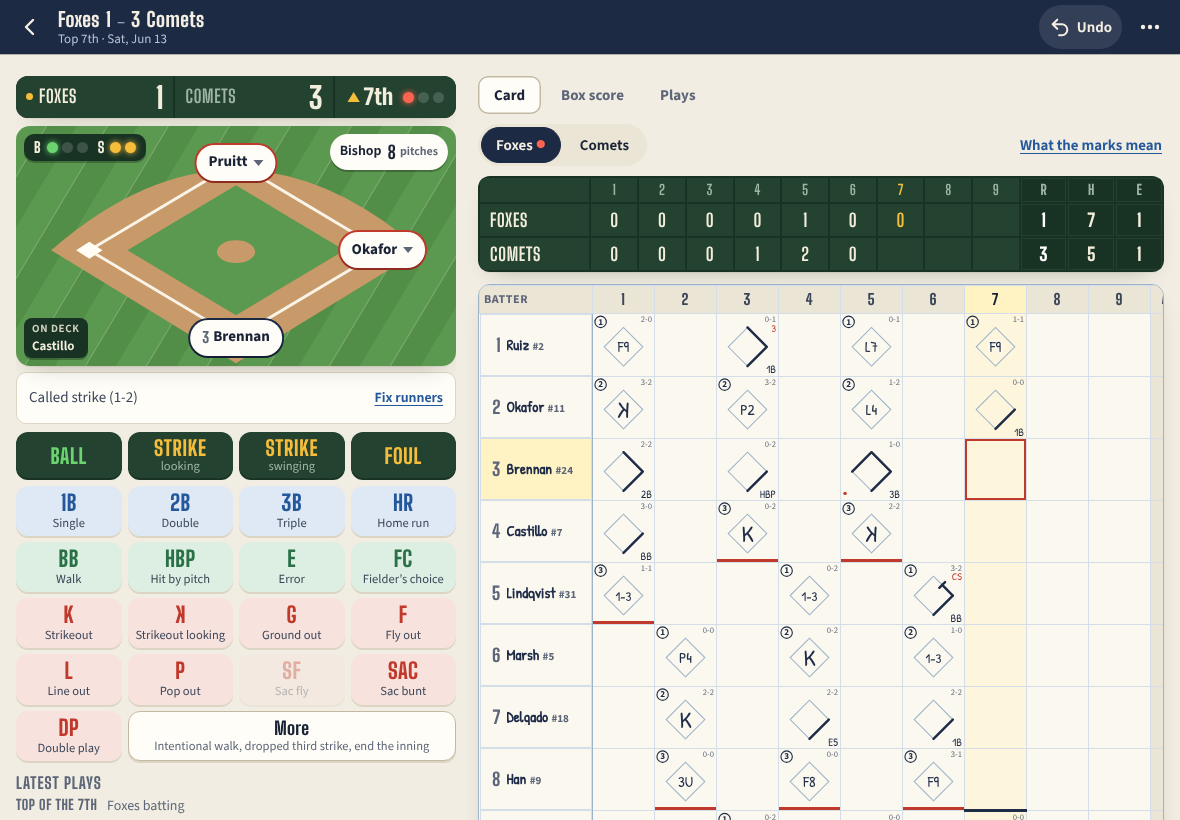
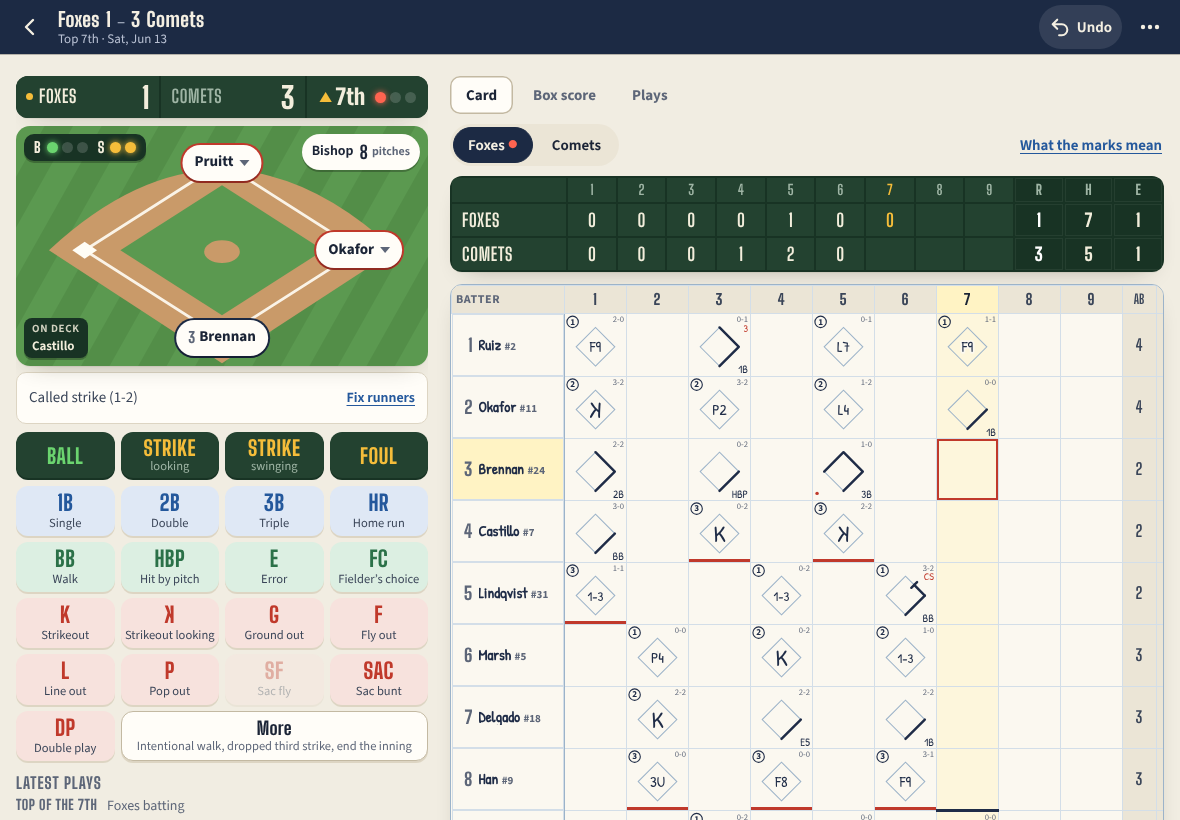
Nine innings of the card fit beside the buttons on a laptop
At 1280x800 the card was 898px wide in 784px of room, and at 1366x768
in 870px, so RBI was cut off and the card scrolled sideways for a few
pixels. The bigger boxes came in at 1200px wide whether or not they
fit. Now the boxes grow with the room the card has, from 62px to 72px,
only as far as nine innings and AB R H RBI still fit across: 62px at
1280, 68px at 1366, 72px from 1440. Up to 1365px wide the buttons'
column is 412px instead of 440px, so the card fits at 1280; the words
on the result buttons come 2px closer to their edges there, so
"Strikeout looking" stays on one line and everything down to More
still fits on a tablet on its side. The tablet picture is redrawn; the
link preview is drawn from the card at a computer's width, so it comes
out as before.

Claude-Session: https://claude.ai/code/session_0157za5jQT97q7xA8DmFNyQL

diff --git a/css/app.css b/css/app.css
@@ -447,6 +447,12 @@ details.lineup summary small { color: var(--muted); font-weight: 400; }
   }
   .live > .recent { display: block; }
 }
+/* Up to a laptop: a little less room for the buttons, so on a laptop nine innings of the card and AB R H RBI fit beside
+   them. (Their words come a little closer to their edges, so "Strikeout looking" still fits on one line.) */
+@media (min-width: 1000px) and (max-width: 1365px) {
+  .game { grid-template-columns: minmax(380px, 412px) minmax(0, 1fr); }
+  .pads .res { padding-left: 2px; padding-right: 2px; }
+}
 /* A tablet on its side, or a short window: slightly shorter buttons, and the field takes what height is left, so
    everything down to More fits without scrolling. (The infield stretches to fit.) */
 @media (min-width: 1000px) and (max-height: 900px) {
@@ -497,12 +503,11 @@ details.lineup summary small { color: var(--muted); font-weight: 400; }
 .card tr.up .who { background: var(--now); }
 .card td { width: 62px; height: 62px; min-width: 62px; vertical-align: middle; text-align: center; }
 .card td.cur { background: color-mix(in srgb, var(--now) 45%, transparent); }
-/* A computer or a big tablet on its side: the card has room, so the boxes are bigger. (Not on a smaller tablet on
-   its side, where it would show fewer innings.) */
-@media (min-width: 1200px) {
-  .card td { width: 72px; height: 72px; min-width: 72px; }
-  .card tbody .who { height: 72px; }
-}
+/* With room across for nine innings and AB R H RBI in bigger boxes (a big screen), the boxes grow to fill it, up to
+   72px. (Where there isn't room, or the browser can't work it out, they stay 62px.) */
+.pane[data-p="card"] { container-type: inline-size; }
+.pane[data-p="card"] .card tbody td:not(.tot) { width: clamp(62px, round(down, (100cqi - 256px) / 9, 1px), 72px); min-width: clamp(62px, round(down, (100cqi - 256px) / 9, 1px), 72px); }
+.pane[data-p="card"] .card tbody :is(td, .who) { height: clamp(62px, round(down, (100cqi - 256px) / 9, 1px), 72px); }
 .card td.next { box-shadow: inset 0 0 0 2px var(--red); }
 .card td.end { box-shadow: inset 0 -3px 0 var(--red); }
 /* A new pitcher (a heavy line along the top) and a substitute's first time up (down the left), drawn on the grid. */
